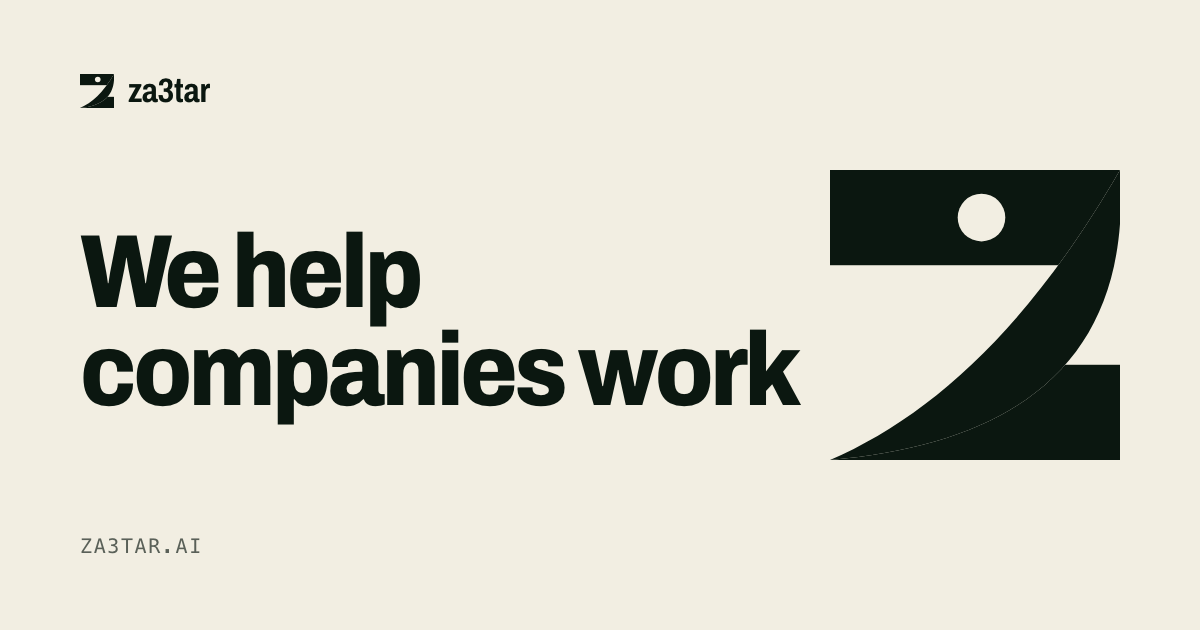
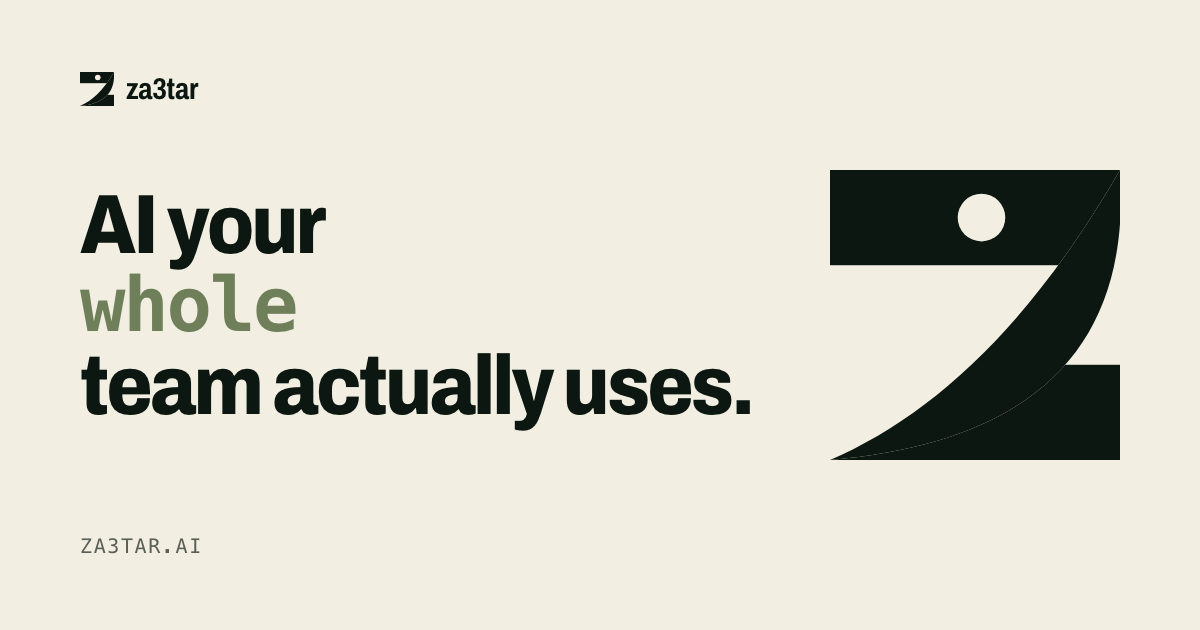
Sell team adoption in the hero instead of company outcomes
Visitors should read that their own people will use AI day to day, so the
headline now rotates through teams (whole, sales, finance, ops...) and the
line under it says what za3tar does: set up, connect, work alongside until
the team runs it. Title, share text, JSON-LD and the share card match.

The share card now has a source (scripts/og) so it can be re-rendered when
the headline changes.

Changed region(s): [[0.0617, 0.3016, 0.6783, 0.6937], [0.0617, 0.1206, 0.185, 0.181]]

diff --git a/site/index.html b/site/index.html
@@ -3,16 +3,16 @@
 <head>
 <meta charset="utf-8">
 <meta name="viewport" content="width=device-width, initial-scale=1, viewport-fit=cover">
-<title>za3tar — we help companies work</title>
-<meta name="description" content="za3tar helps you bring the latest AI tools and frameworks into your organisation and move to AI-native ways of working, through implementation and hands-on education.">
-<meta property="og:title" content="za3tar — we help companies work">
-<meta property="og:description" content="za3tar helps you bring the latest AI tools and frameworks into your organisation and move to AI-native ways of working, through implementation and hands-on education.">
+<title>za3tar — AI your team actually uses</title>
+<meta name="description" content="We set up AI tools inside your company, connect them to the systems you already run, and work with your people until they can run it themselves.">
+<meta property="og:title" content="za3tar — AI your team actually uses">
+<meta property="og:description" content="We set up AI tools inside your company, connect them to the systems you already run, and work with your people until they can run it themselves.">
 <meta property="og:type" content="website">
 <meta property="og:url" content="https://za3tar.ai/">
 <meta property="og:image" content="https://za3tar.ai/og.png">
 <meta property="og:image:width" content="1200">
 <meta property="og:image:height" content="630">
-<meta property="og:image:alt" content="za3tar — we help companies work">
+<meta property="og:image:alt" content="za3tar — AI your team actually uses">
 <meta name="twitter:card" content="summary_large_image">
 <meta name="twitter:image" content="https://za3tar.ai/og.png">
 <link rel="canonical" href="https://za3tar.ai/">
@@ -29,7 +29,7 @@
       "name": "za3tar",
       "url": "https://za3tar.ai/",
       "logo": "https://za3tar.ai/brand/mark.svg",
-      "description": "za3tar helps companies bring the latest AI tools and frameworks into their organisation and move to AI-native ways of working, through implementation and hands-on education.",
+      "description": "za3tar sets up AI tools inside companies, connects them to the systems they already run, and works with their people until they can run it themselves.",
       "address": { "@type": "PostalAddress", "addressLocality": "Dubai", "addressCountry": "AE" },
       "areaServed": "Middle East",
       "knowsAbout": ["AI adoption", "AI agents", "workflow automation", "tool integration", "hands-on AI training"],
@@ -255,8 +255,8 @@ footer a:hover{color:var(--ink)}
 
 <header class="hero">
   <div>
-    <h1 class="display">We help companies <span class="flip" id="flip"><span class="fw">work</span></span></h1>
-    <p>za3tar helps you bring the latest AI tools and frameworks into your organisation and move to AI-native ways of working, through implementation and hands-on education.</p>
+    <h1 class="display">AI your <span class="flip" id="flip"><span class="fw">whole</span></span> team actually uses.</h1>
+    <p>We set up AI tools inside your company, connect them to the systems you already run, and work with your people until they can run it themselves.</p>
   </div>
 
   <a class="cue" href="#reel" aria-label="See how it works"><span>See how it works</span><span class="arr">↓</span></a>
@@ -361,7 +361,7 @@ footer a:hover{color:var(--ink)}
 </svg>
 <script>
 (function(){
-  var words=['work','sell','hire','ship','plan','scale','decide','deliver','respond','grow','run'];
+  var words=['whole','sales','finance','ops','marketing','support','events'];
   var box=document.getElementById('flip'), w=box&&box.querySelector('.fw');
   if(!box||!w||matchMedia('(prefers-reduced-motion: reduce)').matches) return;
   // the word sits on its own line, so its width never moves the rest of the headline

diff --git a/scripts/og/og.html b/scripts/og/og.html
@@ -1,0 +1,27 @@
+<!doctype html>
+<!-- Share card source for site/og.png (1200x630). Render: scripts/og/render.sh -->
+<html lang="en">
+<head>
+<meta charset="utf-8">
+<link href="https://fonts.googleapis.com/css2?family=Archivo:wdth,wght@62..125,100..900&display=swap" rel="stylesheet">
+<style>
+:root{--ink:#0B1710;--paper:#F2EEE2;--ink-66:rgba(11,23,16,.66);--green:#6F7F5A;
+  --sans:"Archivo",Arial,sans-serif;--mono:ui-monospace,"SF Mono",Menlo,Consolas,monospace}
+*{box-sizing:border-box;margin:0}
+html,body{width:1200px;height:630px;overflow:hidden}
+body{background:var(--paper);color:var(--ink);font-family:var(--sans);-webkit-font-smoothing:antialiased;position:relative}
+.logo{position:absolute;left:80px;top:72px;display:flex;align-items:center;gap:12px;font-stretch:78%;font-weight:700;font-size:30px;letter-spacing:-.01em}
+.logo img{width:34px;height:34px}
+h1{position:absolute;left:80px;top:186px;width:730px;font-size:84px;font-stretch:88%;font-weight:800;letter-spacing:-.035em;line-height:.94}
+h1 .w{display:block;font-family:var(--mono);font-weight:700;letter-spacing:-.03em;color:var(--green);font-size:.9em;line-height:1.08}
+.mark{position:absolute;right:80px;top:170px;width:290px;height:290px}
+.url{position:absolute;left:80px;bottom:72px;font-family:var(--mono);font-size:20px;letter-spacing:.08em;color:var(--ink-66)}
+</style>
+</head>
+<body>
+<div class="logo"><img src="../../site/brand/mark-mono.svg" alt="">za3tar</div>
+<h1>AI your <span class="w">whole</span>team actually uses.</h1>
+<img class="mark" src="../../site/brand/mark-mono.svg" alt="">
+<div class="url">ZA3TAR.AI</div>
+</body>
+</html>
